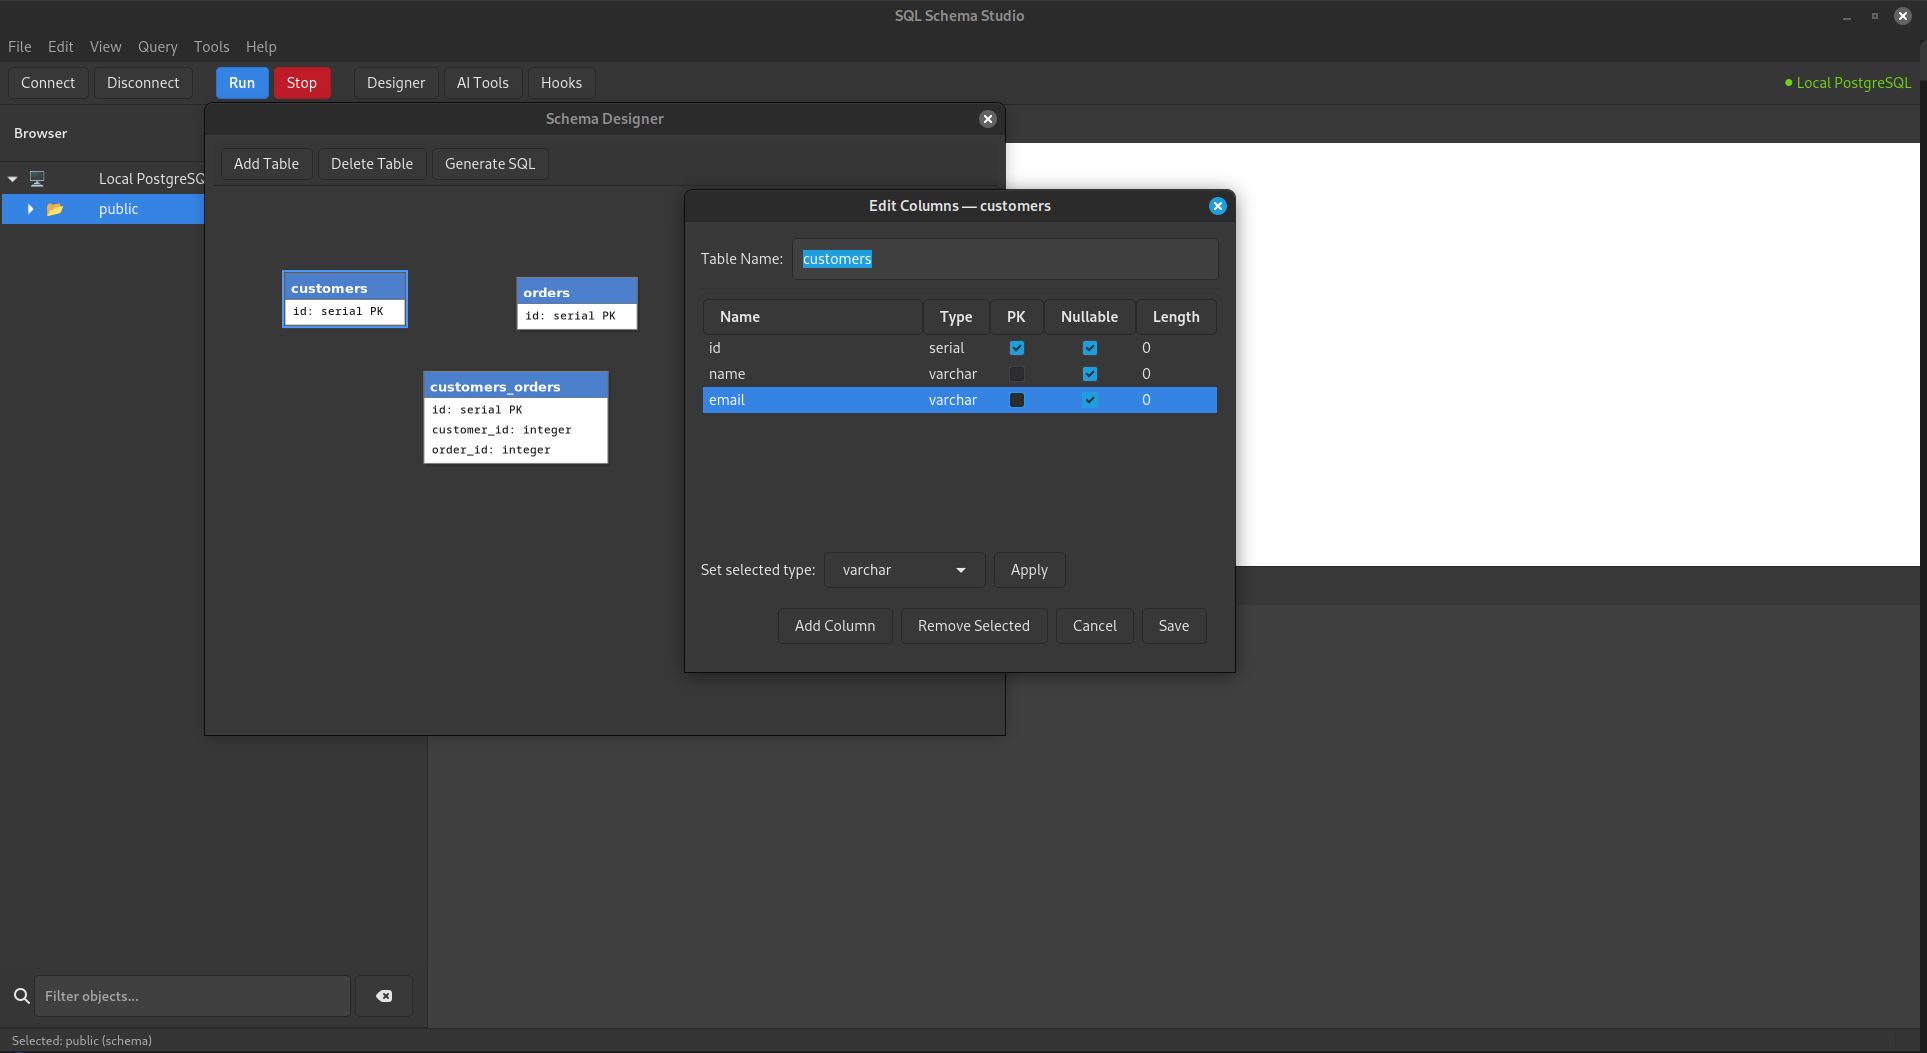
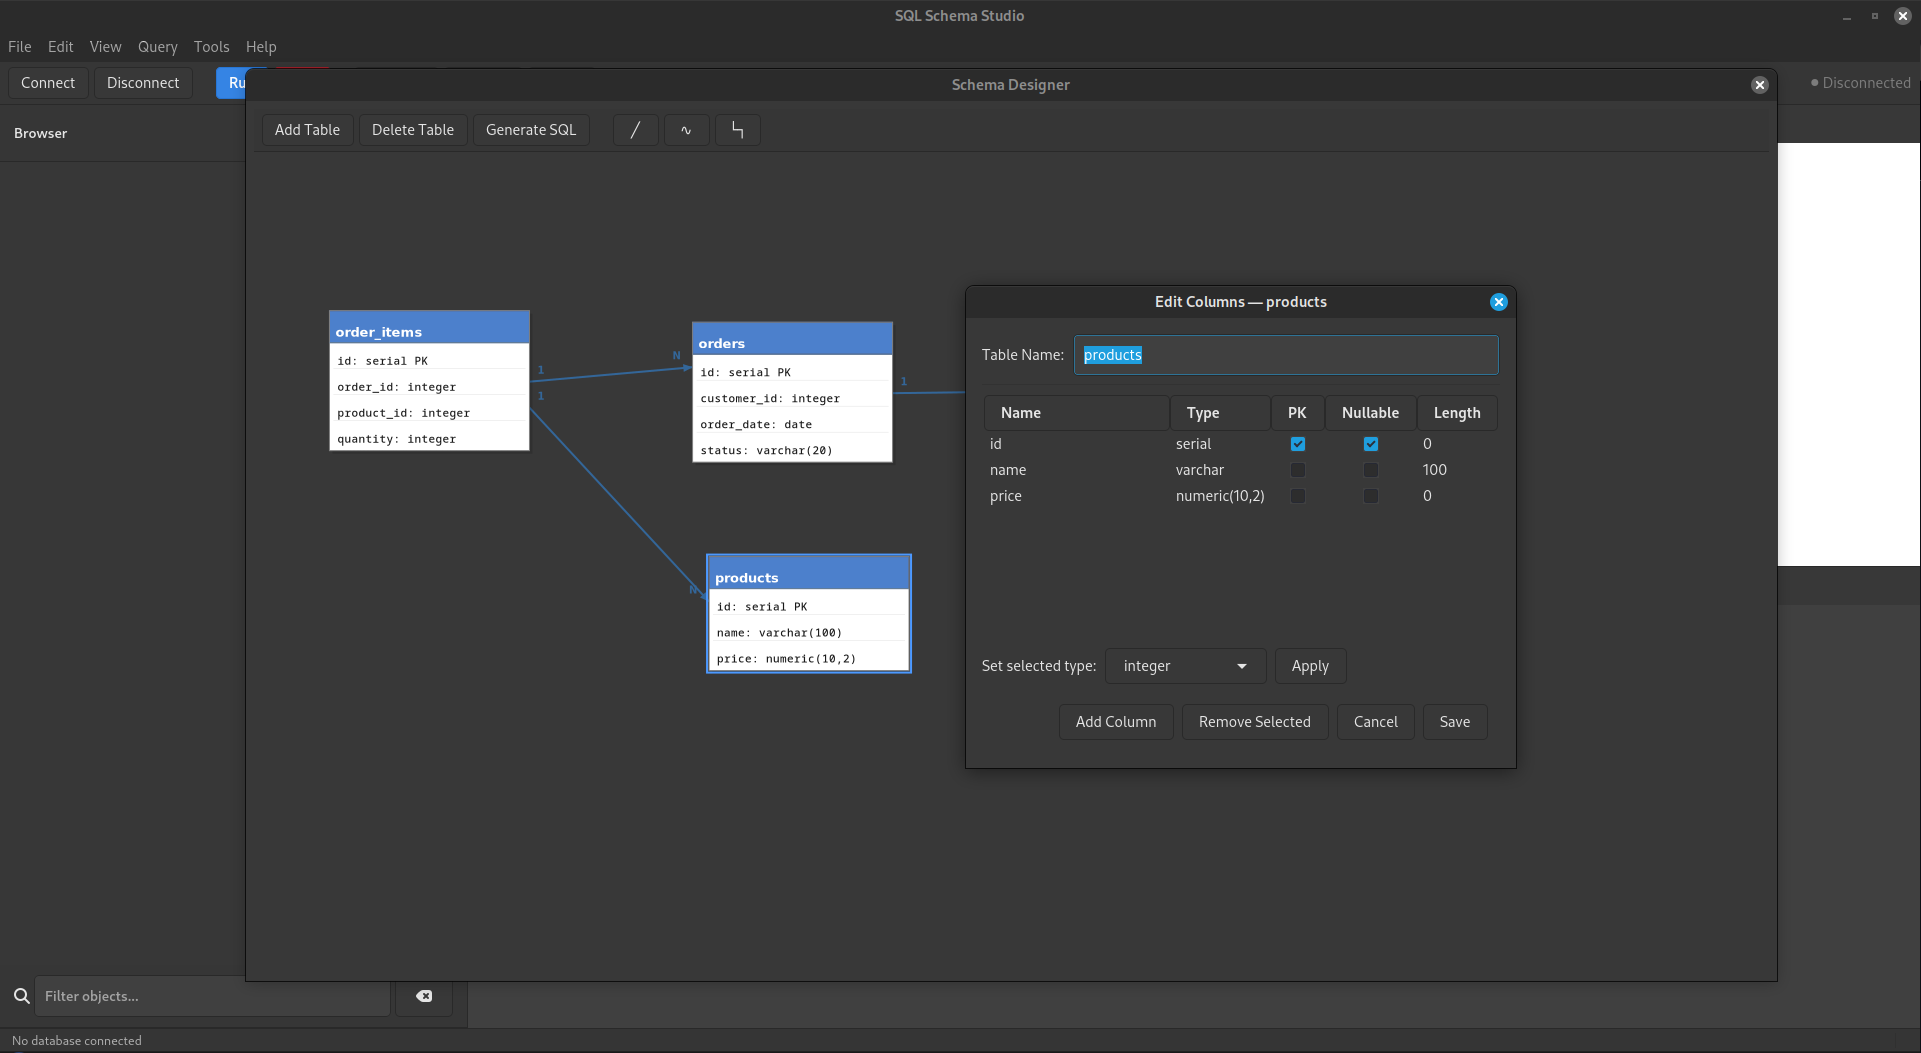
docs: add screenshots up to date

diff --git a/scrshots/README.md b/scrshots/README.md
@@ -10,7 +10,7 @@
 
 ![schema manager1](10.png)
 
-![schema manager2](5.png)
+
 
 ![schema manager3](6.png)
 